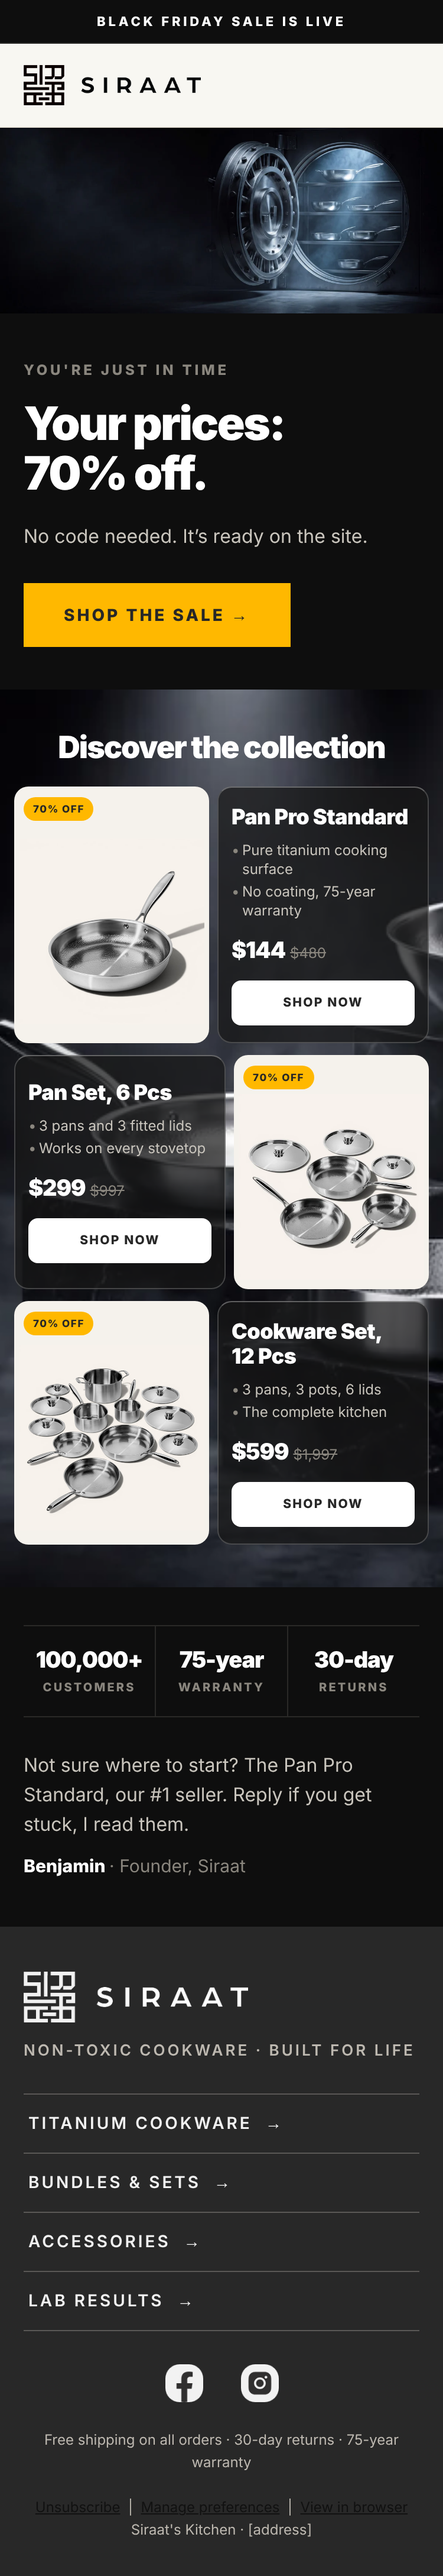
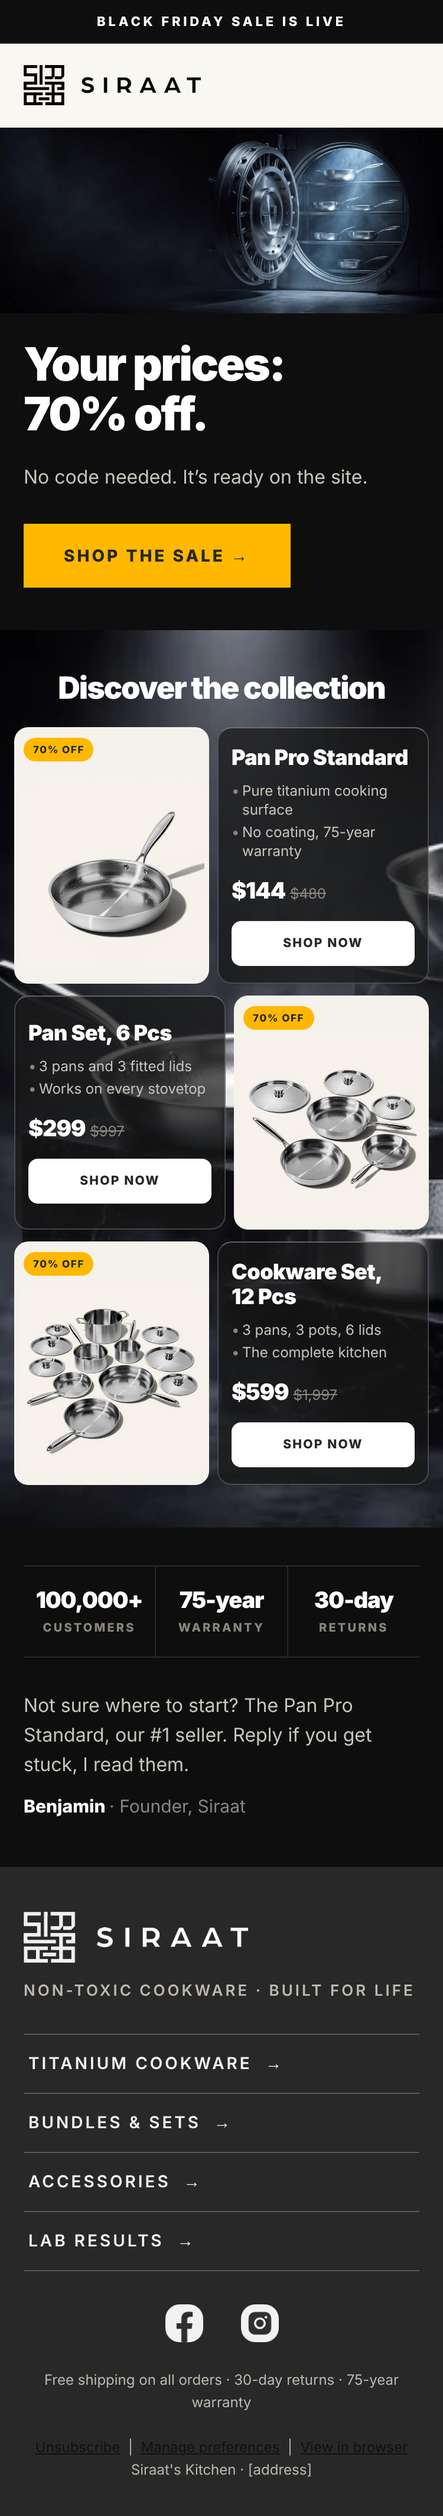
BFCM: W1 D compacter, eyebrow weg
Claude-Session: https://claude.ai/code/session_01HjCaDE95ohEXY6DPZTSH67

diff --git a/klaviyo/templates/v3/bfcm/signup/bf-w1-d-preview.html b/klaviyo/templates/v3/bfcm/signup/bf-w1-d-preview.html
@@ -119,8 +119,7 @@ MARKET-SIGNAL: profile (person.Country). Onbekend land telt als niet-US.
 </td></tr>
 
 <tr><td bgcolor="#0E0E0E" style="background-color:#0E0E0E;padding:0;"><a href="https://siraatskitchen.com/collections/black-friday-sale" style="text-decoration:none;"><img src="https://cdn.shopify.com/s/files/1/0907/0877/1156/files/siraat-collection-exclusive-08-vault-desktop.jpg?width=1200" width="600" alt="Siraat hammered titanium pans in a dark vault" style="display:block;width:100%;max-width:600px;height:auto;border:0;"></a></td></tr>
-<tr><td class="pad" align="left" bgcolor="#0E0E0E" style="background-color:#0E0E0E;padding:40px 40px 0 40px;"><div style="font-family:Inter,Arial,Helvetica,sans-serif;font-size:12px;line-height:16px;font-weight:800;letter-spacing:2.4px;color:#8A867E;text-transform:uppercase;">You're just in time</div></td></tr>
-<tr><td class="pad h1" align="left" bgcolor="#0E0E0E" style="background-color:#0E0E0E;padding:16px 40px 0 40px;font-family:Inter,Arial,Helvetica,sans-serif;font-size:54px;line-height:56px;font-weight:900;letter-spacing:-2px;color:#FFFFFF;">Your prices:<br>70% off.</td></tr>
+<tr><td class="pad h1" align="left" bgcolor="#0E0E0E" style="background-color:#0E0E0E;padding:22px 40px 0 40px;font-family:Inter,Arial,Helvetica,sans-serif;font-size:54px;line-height:56px;font-weight:900;letter-spacing:-2px;color:#FFFFFF;">Your prices:<br>70% off.</td></tr>
 <tr><td class="pad lead" align="left" bgcolor="#0E0E0E" style="background-color:#0E0E0E;padding:20px 40px 0 40px;font-family:Inter,Arial,Helvetica,sans-serif;font-size:18px;line-height:27px;color:#C9C5BD;">No code needed. It&rsquo;s ready on the site.</td></tr>
 <tr><td class="pad" align="left" bgcolor="#0E0E0E" style="background-color:#0E0E0E;padding:28px 40px 36px 40px;"><table role="presentation" cellpadding="0" cellspacing="0" border="0"><tr><td align="center" bgcolor="#FFB800" style="background-color:#FFB800;"><!--[if mso]><v:rect xmlns:v="urn:schemas-microsoft-com:vml" href="https://siraatskitchen.com/collections/black-friday-sale" style="height:54px;v-text-anchor:middle;width:280px;" stroke="f" fillcolor="#FFB800"><center style="color:#272727;font-family:Arial,sans-serif;font-size:14px;font-weight:bold;letter-spacing:2px;">SHOP THE SALE</center></v:rect><![endif]--><!--[if !mso]><!--><a href="https://siraatskitchen.com/collections/black-friday-sale" style="display:block;padding:18px 34px;font-family:Inter,Arial,Helvetica,sans-serif;font-size:14px;line-height:18px;font-weight:800;letter-spacing:2px;color:#272727;text-decoration:none;text-transform:uppercase;white-space:nowrap;">Shop the sale &rarr;</a><!--<![endif]--></td></tr></table></td></tr>
 <tr><td background="https://cdn.shopify.com/s/files/1/0907/0877/1156/files/siraat-collection-exclusive-01-plinths-desktop.jpg?width=1200" bgcolor="#0E0E0E" valign="top" style="background-color:#0E0E0E;background-image:url('https://cdn.shopify.com/s/files/1/0907/0877/1156/files/siraat-collection-exclusive-01-plinths-desktop.jpg?width=1200');background-position:center center;background-size:cover;background-repeat:no-repeat;">
@@ -166,7 +165,7 @@ MARKET-SIGNAL: profile (person.Country). Onbekend land telt als niet-US.
   <tr><td align="center" bgcolor="#282828" style="background-color:#282828;font-family:Inter,Arial,Helvetica,sans-serif;font-size:12px;line-height:19px;color:#BDB8B0;text-align:center;">
     Free shipping on all orders &middot; 30-day returns &middot; 75-year warranty<br><br>
     <a href="#" style="color:#111111;">Unsubscribe</a> &nbsp;|&nbsp; <a href="#" style="color:#111111;">Manage preferences</a> &nbsp;|&nbsp; <a href="#" style="color:#111111;">View in browser</a><br>
-    Siraat's Kitchen &middot; [address]<span style="display:none!important;visibility:hidden;mso-hide:all;font-size:1px;line-height:1px;max-height:0;max-width:0;opacity:0;overflow:hidden;color:#282828;">ref 20261031213454</span>
+    Siraat's Kitchen &middot; [address]<span style="display:none!important;visibility:hidden;mso-hide:all;font-size:1px;line-height:1px;max-height:0;max-width:0;opacity:0;overflow:hidden;color:#282828;">ref 20261031214000</span>
   </td></tr>
 </table>
 </td></tr>

diff --git a/klaviyo/templates/v3/bfcm/signup/bf-w1-d.html b/klaviyo/templates/v3/bfcm/signup/bf-w1-d.html
@@ -59,8 +59,7 @@ MARKET-SIGNAL: profile (person.Country). Onbekend land telt als niet-US.
 <tr><td align="center" bgcolor="#0E0E0E" style="background-color:#0E0E0E;padding:11px 20px;font-family:Inter,Arial,Helvetica,sans-serif;font-size:11px;line-height:14px;letter-spacing:2.4px;font-weight:800;color:#FFFFFF;text-transform:uppercase;border-bottom:1px solid #2A2927;">Black Friday Sale is live</td></tr>
 {{HEADER}}
 <tr><td bgcolor="#0E0E0E" style="background-color:#0E0E0E;padding:0;"><a href="https://siraatskitchen.com/collections/black-friday-sale" style="text-decoration:none;"><img src="https://cdn.shopify.com/s/files/1/0907/0877/1156/files/siraat-collection-exclusive-08-vault-desktop.jpg?width=1200" width="600" alt="Siraat hammered titanium pans in a dark vault" style="display:block;width:100%;max-width:600px;height:auto;border:0;"></a></td></tr>
-<tr><td class="pad" align="left" bgcolor="#0E0E0E" style="background-color:#0E0E0E;padding:40px 40px 0 40px;"><div style="font-family:Inter,Arial,Helvetica,sans-serif;font-size:12px;line-height:16px;font-weight:800;letter-spacing:2.4px;color:#8A867E;text-transform:uppercase;">You're just in time</div></td></tr>
-<tr><td class="pad h1" align="left" bgcolor="#0E0E0E" style="background-color:#0E0E0E;padding:16px 40px 0 40px;font-family:Inter,Arial,Helvetica,sans-serif;font-size:54px;line-height:56px;font-weight:900;letter-spacing:-2px;color:#FFFFFF;">Your prices:<br>70% off.</td></tr>
+<tr><td class="pad h1" align="left" bgcolor="#0E0E0E" style="background-color:#0E0E0E;padding:22px 40px 0 40px;font-family:Inter,Arial,Helvetica,sans-serif;font-size:54px;line-height:56px;font-weight:900;letter-spacing:-2px;color:#FFFFFF;">Your prices:<br>70% off.</td></tr>
 <tr><td class="pad lead" align="left" bgcolor="#0E0E0E" style="background-color:#0E0E0E;padding:20px 40px 0 40px;font-family:Inter,Arial,Helvetica,sans-serif;font-size:18px;line-height:27px;color:#C9C5BD;">No code needed. It&rsquo;s ready on the site.</td></tr>
 <tr><td class="pad" align="left" bgcolor="#0E0E0E" style="background-color:#0E0E0E;padding:28px 40px 36px 40px;"><table role="presentation" cellpadding="0" cellspacing="0" border="0"><tr><td align="center" bgcolor="#FFB800" style="background-color:#FFB800;"><!--[if mso]><v:rect xmlns:v="urn:schemas-microsoft-com:vml" href="https://siraatskitchen.com/collections/black-friday-sale" style="height:54px;v-text-anchor:middle;width:280px;" stroke="f" fillcolor="#FFB800"><center style="color:#272727;font-family:Arial,sans-serif;font-size:14px;font-weight:bold;letter-spacing:2px;">SHOP THE SALE</center></v:rect><![endif]--><!--[if !mso]><!--><a href="https://siraatskitchen.com/collections/black-friday-sale" style="display:block;padding:18px 34px;font-family:Inter,Arial,Helvetica,sans-serif;font-size:14px;line-height:18px;font-weight:800;letter-spacing:2px;color:#272727;text-decoration:none;text-transform:uppercase;white-space:nowrap;">Shop the sale &rarr;</a><!--<![endif]--></td></tr></table></td></tr>
 <tr><td background="https://cdn.shopify.com/s/files/1/0907/0877/1156/files/siraat-collection-exclusive-01-plinths-desktop.jpg?width=1200" bgcolor="#0E0E0E" valign="top" style="background-color:#0E0E0E;background-image:url('https://cdn.shopify.com/s/files/1/0907/0877/1156/files/siraat-collection-exclusive-01-plinths-desktop.jpg?width=1200');background-position:center center;background-size:cover;background-repeat:no-repeat;">

diff --git a/klaviyo/templates/v3/bfcm/signup/bf-w1-d.klaviyo.html b/klaviyo/templates/v3/bfcm/signup/bf-w1-d.klaviyo.html
@@ -105,8 +105,7 @@
 </td></tr>
 
 <tr><td bgcolor="#0E0E0E" style="background-color:#0E0E0E;padding:0;"><a href="https://siraatskitchen.com/collections/black-friday-sale" style="text-decoration:none;"><img src="https://cdn.shopify.com/s/files/1/0907/0877/1156/files/siraat-collection-exclusive-08-vault-desktop.jpg?width=1200" width="600" alt="Siraat hammered titanium pans in a dark vault" style="display:block;width:100%;max-width:600px;height:auto;border:0;"></a></td></tr>
-<tr><td class="pad" align="left" bgcolor="#0E0E0E" style="background-color:#0E0E0E;padding:40px 40px 0 40px;"><div style="font-family:Inter,Arial,Helvetica,sans-serif;font-size:12px;line-height:16px;font-weight:800;letter-spacing:2.4px;color:#8A867E;text-transform:uppercase;">You're just in time</div></td></tr>
-<tr><td class="pad h1" align="left" bgcolor="#0E0E0E" style="background-color:#0E0E0E;padding:16px 40px 0 40px;font-family:Inter,Arial,Helvetica,sans-serif;font-size:54px;line-height:56px;font-weight:900;letter-spacing:-2px;color:#FFFFFF;">Your prices:<br>70% off.</td></tr>
+<tr><td class="pad h1" align="left" bgcolor="#0E0E0E" style="background-color:#0E0E0E;padding:22px 40px 0 40px;font-family:Inter,Arial,Helvetica,sans-serif;font-size:54px;line-height:56px;font-weight:900;letter-spacing:-2px;color:#FFFFFF;">Your prices:<br>70% off.</td></tr>
 <tr><td class="pad lead" align="left" bgcolor="#0E0E0E" style="background-color:#0E0E0E;padding:20px 40px 0 40px;font-family:Inter,Arial,Helvetica,sans-serif;font-size:18px;line-height:27px;color:#C9C5BD;">No code needed. It&rsquo;s ready on the site.</td></tr>
 <tr><td class="pad" align="left" bgcolor="#0E0E0E" style="background-color:#0E0E0E;padding:28px 40px 36px 40px;"><table role="presentation" cellpadding="0" cellspacing="0" border="0"><tr><td align="center" bgcolor="#FFB800" style="background-color:#FFB800;"><!--[if mso]><v:rect xmlns:v="urn:schemas-microsoft-com:vml" href="https://siraatskitchen.com/collections/black-friday-sale" style="height:54px;v-text-anchor:middle;width:280px;" stroke="f" fillcolor="#FFB800"><center style="color:#272727;font-family:Arial,sans-serif;font-size:14px;font-weight:bold;letter-spacing:2px;">SHOP THE SALE</center></v:rect><![endif]--><!--[if !mso]><!--><a href="https://siraatskitchen.com/collections/black-friday-sale" style="display:block;padding:18px 34px;font-family:Inter,Arial,Helvetica,sans-serif;font-size:14px;line-height:18px;font-weight:800;letter-spacing:2px;color:#272727;text-decoration:none;text-transform:uppercase;white-space:nowrap;">Shop the sale &rarr;</a><!--<![endif]--></td></tr></table></td></tr>
 <tr><td background="https://cdn.shopify.com/s/files/1/0907/0877/1156/files/siraat-collection-exclusive-01-plinths-desktop.jpg?width=1200" bgcolor="#0E0E0E" valign="top" style="background-color:#0E0E0E;background-image:url('https://cdn.shopify.com/s/files/1/0907/0877/1156/files/siraat-collection-exclusive-01-plinths-desktop.jpg?width=1200');background-position:center center;background-size:cover;background-repeat:no-repeat;">

diff --git a/LOG.md b/LOG.md
@@ -305,3 +305,4 @@ Nieuwste bovenaan. Elke regel: datum, wat er gedaan is, wat het opleverde of wat
 - 31 okt 2026: W1 D copy op verzoek Floris: 'YOU'RE JUST IN TIME / Your prices: 70% off. / No code needed. It's ready on the site.'; labels '70% off'; preview aangepast. Templates TdfWqT, XkvvH6, Xr8L4u + flowpreviews bijgewerkt. Klopt zolang alles in de BF-collectie 70% is (getoonde producten: 70%).
 - 31 okt 2026: nieuwe testmails W1 D (VS + DE) met copy 'Your prices: 70% off.' naar lolagroothuis@gmail.com.
 - 31 okt 2026: W1 D knoppen 'Shop now' naar productpagina's (geen add to cart meer, Floris). Templates TdfWqT, XkvvH6, Xr8L4u bijgewerkt, testmails VS + DE naar lolagroothuis@gmail.com, Figma bijgewerkt.
+- 31 okt 2026: W1 D: eyebrow 'You're just in time' weg, minder ruimte tussen banner en kop (Floris). Templates bijgewerkt, testmail VS naar lolagroothuis@gmail.com, Figma bijgewerkt.
